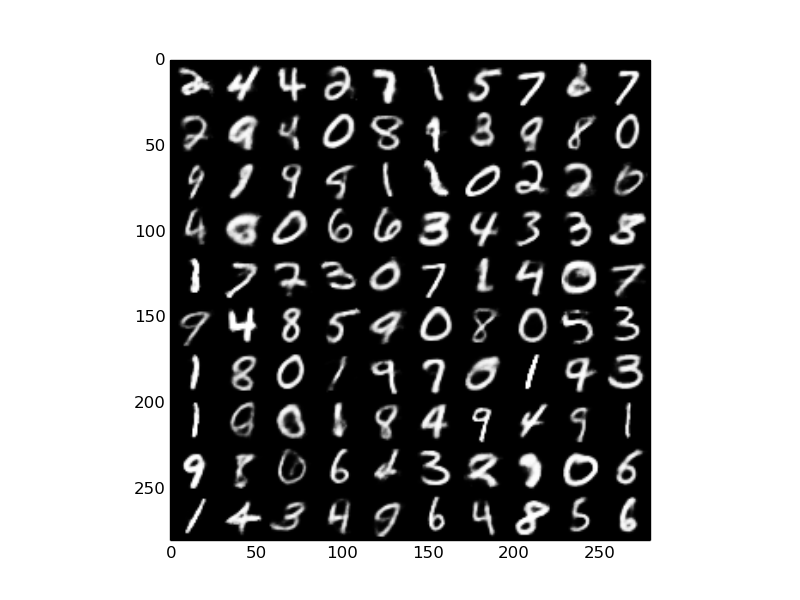
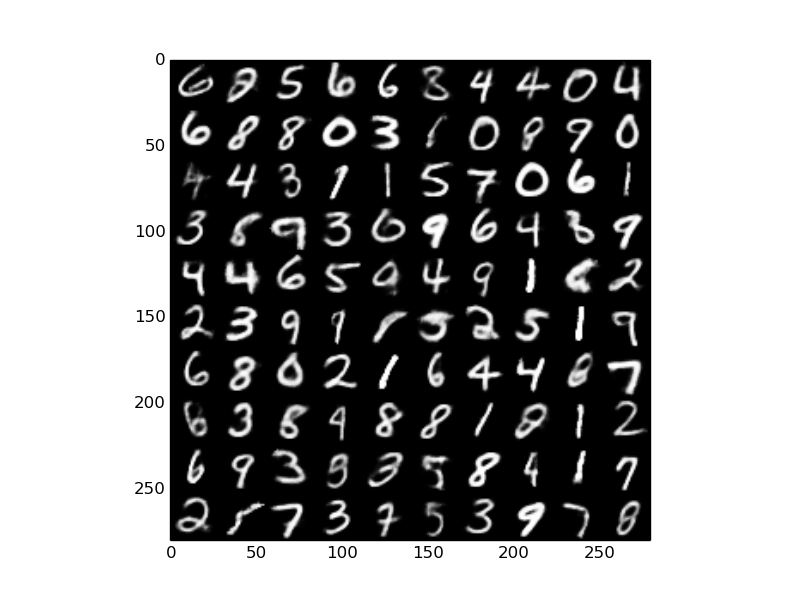
Fix autoencoder image

Changed region(s): [[0.2188, 0.09, 0.8125, 0.9], [0.4688, 0.84, 0.5, 0.9]]

diff --git a/autoencoder.py b/autoencoder.py
@@ -18,7 +18,7 @@ BATCH_SIZE   = 100
 INPUT_DIM    = 784
 HIDDEN_DIM   = 1024
 LATENT_DIM   = 8
-LATENT_STDEV = 5
+LATENT_STDEV = 10
 EPOCHS       = 100
 
 theano_srng = RandomStreams(seed=234)
